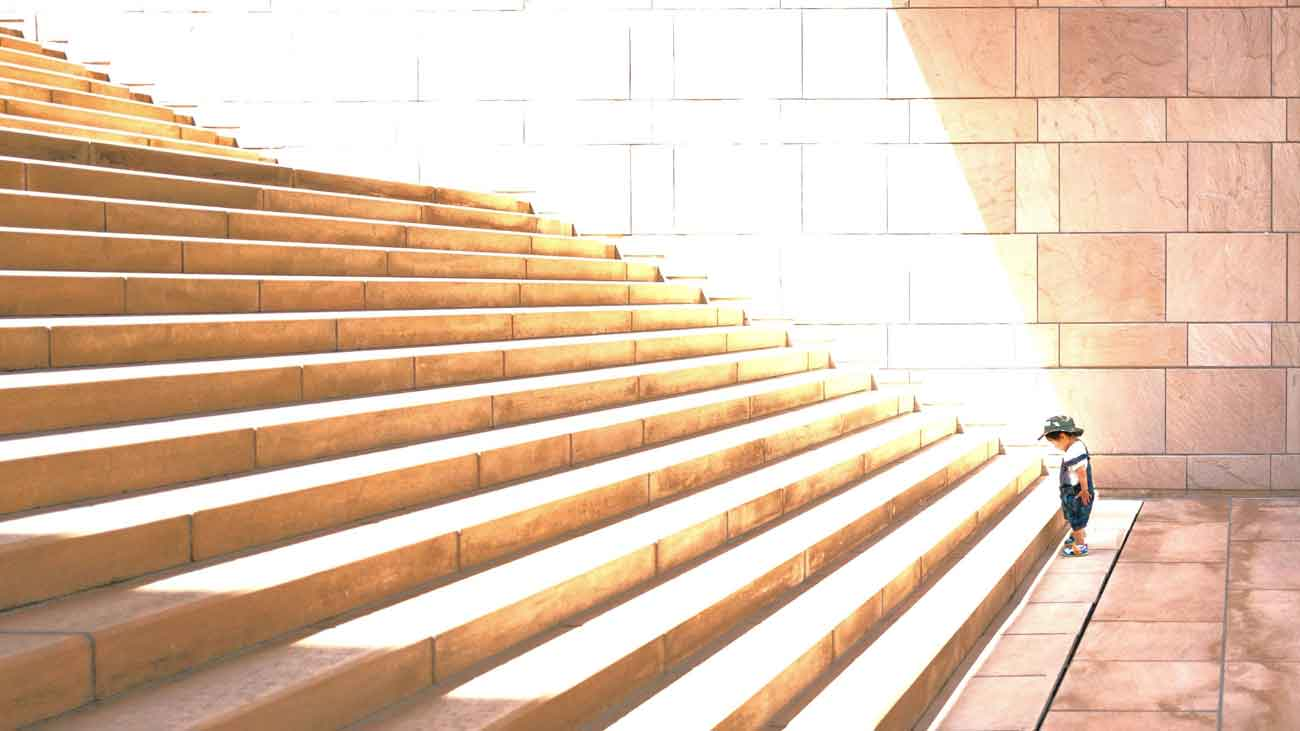
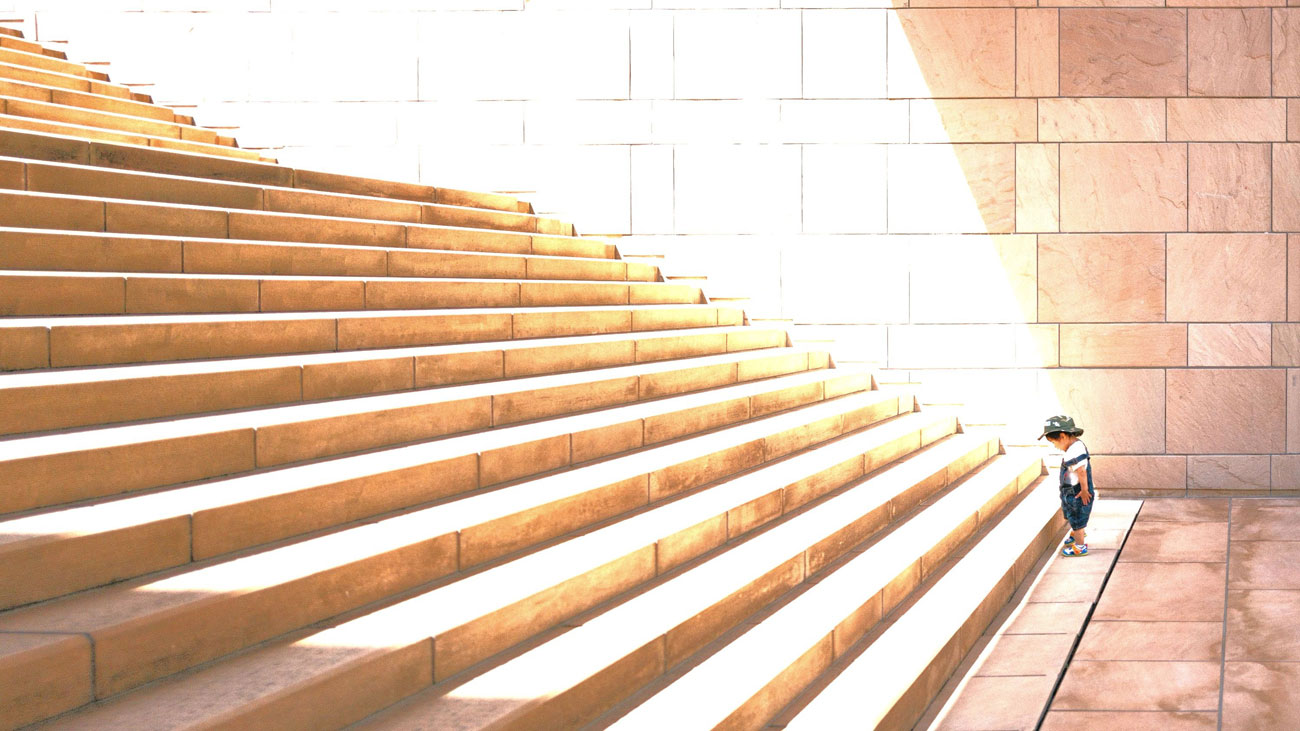
Higher resolution pictures for sections. Removing buttons

diff --git a/findyour3d/templates/pages/home.html b/findyour3d/templates/pages/home.html
@@ -31,7 +31,7 @@
               <b>Tired of searching for the perfect fit for your project?
                 Let us help. We compare the top 3D Printing Services to find you the best fit for you.</b>
             </p>
-            <a href="#testimonials" class="btn btn-default page-scroll">BRING YOUR PROJECT TO LIFE</a>
+            <a href="{% url 'account_signup' %}" class="btn btn-default page-scroll">BRING YOUR PROJECT TO LIFE</a>
           </div>
         </div>
       </div>
@@ -56,7 +56,7 @@
     <div class="intro-body">
       <div class="container">
         <div class="row">
-          <div class="col-md-10 col-md-offset-1">
+          <div class="col-md-12">
             <h2><span class="brand-heading">
               Browse the Best 3D Printing Providers <br> Instantly and All For Free.</span></h2>
             <p class="intro-text">
@@ -65,7 +65,7 @@
               Find your perfect match and starting printing today.
 
             </p>
-            <a href="#" class="btn btn-default page-scroll">START NOW</a>
+{#            <a href="#" class="btn btn-default page-scroll">START NOW</a>#}
           </div>
         </div>
       </div>
@@ -78,7 +78,7 @@
     <div class="intro-body">
       <div class="container">
         <div class="row">
-          <div class="col-md-10 col-md-offset-1">
+          <div class="col-md-12">
             <h2><span class="brand-heading">
               3D Printing Is Tough... <br>
               Let Us Help.
@@ -91,7 +91,7 @@
 
           </div>
           <div style="text-align: left">
-            <a href="#" class="btn btn-default page-scroll">START NOW</a>
+{#            <a href="#" class="btn btn-default page-scroll">START NOW</a>#}
           </div>
         </div>
       </div>
@@ -154,7 +154,7 @@
       </div>
       <div class="row">
         <div class="col-md-10 col-md-offset-1">
-          <a href="{% url 'account_signup' %}?type=business"
+          <a href="{% url 'account_signup' %}"
              class="btn btn-default page-scroll">GET STARTED NOW</a>
         </div>
       </div>
